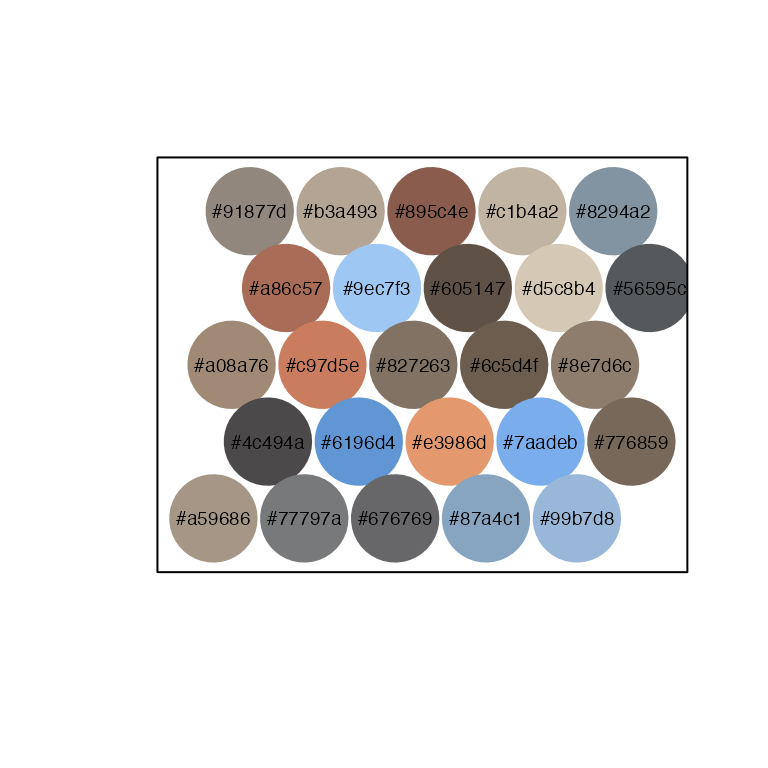
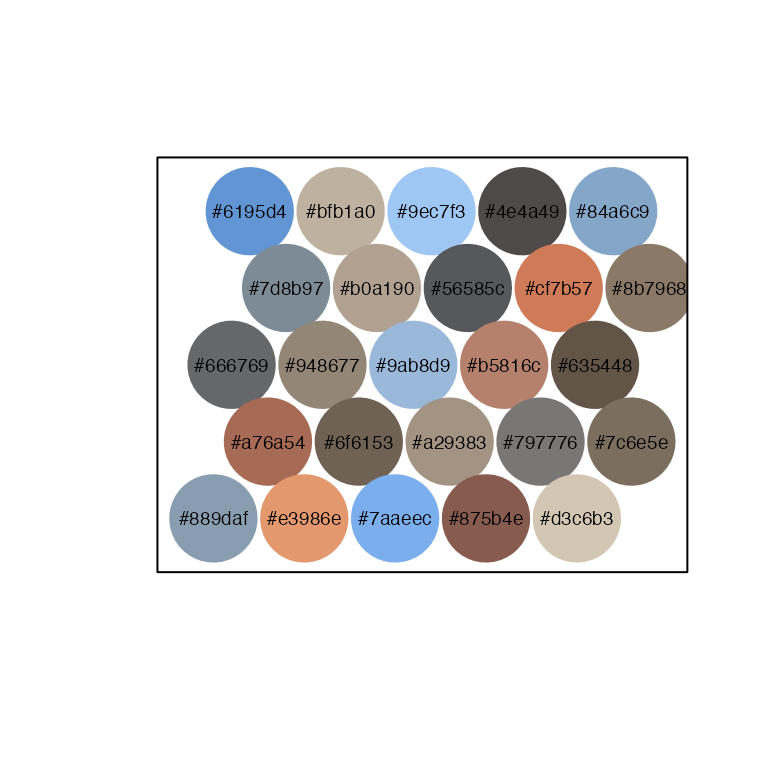
Re-built site with LTER defined and tweaked `palette_check` example

Changed region(s): [[0.2188, 0.2188, 0.9062, 0.75]]

diff --git a/docs/reference/lterpalettefinder-package.html b/docs/reference/lterpalettefinder-package.html
@@ -1,5 +1,5 @@
 <!DOCTYPE html>
-<!-- Generated by pkgdown: do not edit by hand --><html lang="en"><head><meta http-equiv="Content-Type" content="text/html; charset=UTF-8"><meta charset="utf-8"><meta http-equiv="X-UA-Compatible" content="IE=edge"><meta name="viewport" content="width=device-width, initial-scale=1, shrink-to-fit=no"><meta name="description" content="Allows identification of palettes derived from LTER photographs based on user criteria. Also facilitates extraction of palettes from users' photos directly."><title>lterpalettefinder: Extract Color Palettes from Photos and Pick Official LTER Palettes — lterpalettefinder-package • lterpalettefinder</title><script src="../deps/jquery-3.6.0/jquery-3.6.0.min.js"></script><meta name="viewport" content="width=device-width, initial-scale=1, shrink-to-fit=no"><link href="../deps/bootstrap-5.1.3/bootstrap.min.css" rel="stylesheet"><script src="../deps/bootstrap-5.1.3/bootstrap.bundle.min.js"></script><!-- Font Awesome icons --><link rel="stylesheet" href="https://cdnjs.cloudflare.com/ajax/libs/font-awesome/5.12.1/css/all.min.css" integrity="sha256-mmgLkCYLUQbXn0B1SRqzHar6dCnv9oZFPEC1g1cwlkk=" crossorigin="anonymous"><link rel="stylesheet" href="https://cdnjs.cloudflare.com/ajax/libs/font-awesome/5.12.1/css/v4-shims.min.css" integrity="sha256-wZjR52fzng1pJHwx4aV2AO3yyTOXrcDW7jBpJtTwVxw=" crossorigin="anonymous"><!-- bootstrap-toc --><script src="https://cdn.rawgit.com/afeld/bootstrap-toc/v1.0.1/dist/bootstrap-toc.min.js"></script><!-- headroom.js --><script src="https://cdnjs.cloudflare.com/ajax/libs/headroom/0.11.0/headroom.min.js" integrity="sha256-AsUX4SJE1+yuDu5+mAVzJbuYNPHj/WroHuZ8Ir/CkE0=" crossorigin="anonymous"></script><script src="https://cdnjs.cloudflare.com/ajax/libs/headroom/0.11.0/jQuery.headroom.min.js" integrity="sha256-ZX/yNShbjqsohH1k95liqY9Gd8uOiE1S4vZc+9KQ1K4=" crossorigin="anonymous"></script><!-- clipboard.js --><script src="https://cdnjs.cloudflare.com/ajax/libs/clipboard.js/2.0.6/clipboard.min.js" integrity="sha256-inc5kl9MA1hkeYUt+EC3BhlIgyp/2jDIyBLS6k3UxPI=" crossorigin="anonymous"></script><!-- search --><script src="https://cdnjs.cloudflare.com/ajax/libs/fuse.js/6.4.6/fuse.js" integrity="sha512-zv6Ywkjyktsohkbp9bb45V6tEMoWhzFzXis+LrMehmJZZSys19Yxf1dopHx7WzIKxr5tK2dVcYmaCk2uqdjF4A==" crossorigin="anonymous"></script><script src="https://cdnjs.cloudflare.com/ajax/libs/autocomplete.js/0.38.0/autocomplete.jquery.min.js" integrity="sha512-GU9ayf+66Xx2TmpxqJpliWbT5PiGYxpaG8rfnBEk1LL8l1KGkRShhngwdXK1UgqhAzWpZHSiYPc09/NwDQIGyg==" crossorigin="anonymous"></script><script src="https://cdnjs.cloudflare.com/ajax/libs/mark.js/8.11.1/mark.min.js" integrity="sha512-5CYOlHXGh6QpOFA/TeTylKLWfB3ftPsde7AnmhuitiTX4K5SqCLBeKro6sPS8ilsz1Q4NRx3v8Ko2IBiszzdww==" crossorigin="anonymous"></script><!-- pkgdown --><script src="../pkgdown.js"></script><meta property="og:title" content="lterpalettefinder: Extract Color Palettes from Photos and Pick Official LTER Palettes — lterpalettefinder-package"><meta property="og:description" content="Allows identification of palettes derived from LTER photographs based on user criteria. Also facilitates extraction of palettes from users' photos directly."><!-- mathjax --><script src="https://cdnjs.cloudflare.com/ajax/libs/mathjax/2.7.5/MathJax.js" integrity="sha256-nvJJv9wWKEm88qvoQl9ekL2J+k/RWIsaSScxxlsrv8k=" crossorigin="anonymous"></script><script src="https://cdnjs.cloudflare.com/ajax/libs/mathjax/2.7.5/config/TeX-AMS-MML_HTMLorMML.js" integrity="sha256-84DKXVJXs0/F8OTMzX4UR909+jtl4G7SPypPavF+GfA=" crossorigin="anonymous"></script><!--[if lt IE 9]>
+<!-- Generated by pkgdown: do not edit by hand --><html lang="en"><head><meta http-equiv="Content-Type" content="text/html; charset=UTF-8"><meta charset="utf-8"><meta http-equiv="X-UA-Compatible" content="IE=edge"><meta name="viewport" content="width=device-width, initial-scale=1, shrink-to-fit=no"><meta name="description" content="Allows identification of palettes derived from LTER (Long Term Ecological Research) photographs based on user criteria. Also facilitates extraction of palettes from users' photos directly."><title>lterpalettefinder: Extract Color Palettes from Photos and Pick Official LTER Palettes — lterpalettefinder-package • lterpalettefinder</title><script src="../deps/jquery-3.6.0/jquery-3.6.0.min.js"></script><meta name="viewport" content="width=device-width, initial-scale=1, shrink-to-fit=no"><link href="../deps/bootstrap-5.1.3/bootstrap.min.css" rel="stylesheet"><script src="../deps/bootstrap-5.1.3/bootstrap.bundle.min.js"></script><!-- Font Awesome icons --><link rel="stylesheet" href="https://cdnjs.cloudflare.com/ajax/libs/font-awesome/5.12.1/css/all.min.css" integrity="sha256-mmgLkCYLUQbXn0B1SRqzHar6dCnv9oZFPEC1g1cwlkk=" crossorigin="anonymous"><link rel="stylesheet" href="https://cdnjs.cloudflare.com/ajax/libs/font-awesome/5.12.1/css/v4-shims.min.css" integrity="sha256-wZjR52fzng1pJHwx4aV2AO3yyTOXrcDW7jBpJtTwVxw=" crossorigin="anonymous"><!-- bootstrap-toc --><script src="https://cdn.rawgit.com/afeld/bootstrap-toc/v1.0.1/dist/bootstrap-toc.min.js"></script><!-- headroom.js --><script src="https://cdnjs.cloudflare.com/ajax/libs/headroom/0.11.0/headroom.min.js" integrity="sha256-AsUX4SJE1+yuDu5+mAVzJbuYNPHj/WroHuZ8Ir/CkE0=" crossorigin="anonymous"></script><script src="https://cdnjs.cloudflare.com/ajax/libs/headroom/0.11.0/jQuery.headroom.min.js" integrity="sha256-ZX/yNShbjqsohH1k95liqY9Gd8uOiE1S4vZc+9KQ1K4=" crossorigin="anonymous"></script><!-- clipboard.js --><script src="https://cdnjs.cloudflare.com/ajax/libs/clipboard.js/2.0.6/clipboard.min.js" integrity="sha256-inc5kl9MA1hkeYUt+EC3BhlIgyp/2jDIyBLS6k3UxPI=" crossorigin="anonymous"></script><!-- search --><script src="https://cdnjs.cloudflare.com/ajax/libs/fuse.js/6.4.6/fuse.js" integrity="sha512-zv6Ywkjyktsohkbp9bb45V6tEMoWhzFzXis+LrMehmJZZSys19Yxf1dopHx7WzIKxr5tK2dVcYmaCk2uqdjF4A==" crossorigin="anonymous"></script><script src="https://cdnjs.cloudflare.com/ajax/libs/autocomplete.js/0.38.0/autocomplete.jquery.min.js" integrity="sha512-GU9ayf+66Xx2TmpxqJpliWbT5PiGYxpaG8rfnBEk1LL8l1KGkRShhngwdXK1UgqhAzWpZHSiYPc09/NwDQIGyg==" crossorigin="anonymous"></script><script src="https://cdnjs.cloudflare.com/ajax/libs/mark.js/8.11.1/mark.min.js" integrity="sha512-5CYOlHXGh6QpOFA/TeTylKLWfB3ftPsde7AnmhuitiTX4K5SqCLBeKro6sPS8ilsz1Q4NRx3v8Ko2IBiszzdww==" crossorigin="anonymous"></script><!-- pkgdown --><script src="../pkgdown.js"></script><meta property="og:title" content="lterpalettefinder: Extract Color Palettes from Photos and Pick Official LTER Palettes — lterpalettefinder-package"><meta property="og:description" content="Allows identification of palettes derived from LTER (Long Term Ecological Research) photographs based on user criteria. Also facilitates extraction of palettes from users' photos directly."><!-- mathjax --><script src="https://cdnjs.cloudflare.com/ajax/libs/mathjax/2.7.5/MathJax.js" integrity="sha256-nvJJv9wWKEm88qvoQl9ekL2J+k/RWIsaSScxxlsrv8k=" crossorigin="anonymous"></script><script src="https://cdnjs.cloudflare.com/ajax/libs/mathjax/2.7.5/config/TeX-AMS-MML_HTMLorMML.js" integrity="sha256-84DKXVJXs0/F8OTMzX4UR909+jtl4G7SPypPavF+GfA=" crossorigin="anonymous"></script><!--[if lt IE 9]>
 <script src="https://oss.maxcdn.com/html5shiv/3.7.3/html5shiv.min.js"></script>
 <script src="https://oss.maxcdn.com/respond/1.4.2/respond.min.js"></script>
 <![endif]--></head><body>
@@ -49,7 +49,7 @@
     </div>
 
     <div class="ref-description section level2">
-    <p>Allows identification of palettes derived from LTER photographs based on user criteria. Also facilitates extraction of palettes from users' photos directly.</p>
+    <p>Allows identification of palettes derived from LTER (Long Term Ecological Research) photographs based on user criteria. Also facilitates extraction of palettes from users' photos directly.</p>
     </div>
 
 

diff --git a/docs/index.html b/docs/index.html
@@ -5,7 +5,8 @@
 <meta charset="utf-8">
 <meta http-equiv="X-UA-Compatible" content="IE=edge">
 <meta name="viewport" content="width=device-width, initial-scale=1, shrink-to-fit=no">
-<meta name="description" content="Allows identification of palettes derived from LTER photographs based on user criteria.
+<meta name="description" content="Allows identification of palettes derived from LTER (Long Term Ecological Research) 
+   photographs based on user criteria.
    Also facilitates extraction of palettes from users' photos directly.">
 <title>Extract Color Palettes from Photos and Pick Official LTER Palettes • lterpalettefinder</title>
 <script src="deps/jquery-3.6.0/jquery-3.6.0.min.js"></script><meta name="viewport" content="width=device-width, initial-scale=1, shrink-to-fit=no">
@@ -13,7 +14,8 @@
 <script src="deps/bootstrap-5.1.3/bootstrap.bundle.min.js"></script><!-- Font Awesome icons --><link rel="stylesheet" href="https://cdnjs.cloudflare.com/ajax/libs/font-awesome/5.12.1/css/all.min.css" integrity="sha256-mmgLkCYLUQbXn0B1SRqzHar6dCnv9oZFPEC1g1cwlkk=" crossorigin="anonymous">
 <link rel="stylesheet" href="https://cdnjs.cloudflare.com/ajax/libs/font-awesome/5.12.1/css/v4-shims.min.css" integrity="sha256-wZjR52fzng1pJHwx4aV2AO3yyTOXrcDW7jBpJtTwVxw=" crossorigin="anonymous">
 <!-- bootstrap-toc --><script src="https://cdn.rawgit.com/afeld/bootstrap-toc/v1.0.1/dist/bootstrap-toc.min.js"></script><!-- headroom.js --><script src="https://cdnjs.cloudflare.com/ajax/libs/headroom/0.11.0/headroom.min.js" integrity="sha256-AsUX4SJE1+yuDu5+mAVzJbuYNPHj/WroHuZ8Ir/CkE0=" crossorigin="anonymous"></script><script src="https://cdnjs.cloudflare.com/ajax/libs/headroom/0.11.0/jQuery.headroom.min.js" integrity="sha256-ZX/yNShbjqsohH1k95liqY9Gd8uOiE1S4vZc+9KQ1K4=" crossorigin="anonymous"></script><!-- clipboard.js --><script src="https://cdnjs.cloudflare.com/ajax/libs/clipboard.js/2.0.6/clipboard.min.js" integrity="sha256-inc5kl9MA1hkeYUt+EC3BhlIgyp/2jDIyBLS6k3UxPI=" crossorigin="anonymous"></script><!-- search --><script src="https://cdnjs.cloudflare.com/ajax/libs/fuse.js/6.4.6/fuse.js" integrity="sha512-zv6Ywkjyktsohkbp9bb45V6tEMoWhzFzXis+LrMehmJZZSys19Yxf1dopHx7WzIKxr5tK2dVcYmaCk2uqdjF4A==" crossorigin="anonymous"></script><script src="https://cdnjs.cloudflare.com/ajax/libs/autocomplete.js/0.38.0/autocomplete.jquery.min.js" integrity="sha512-GU9ayf+66Xx2TmpxqJpliWbT5PiGYxpaG8rfnBEk1LL8l1KGkRShhngwdXK1UgqhAzWpZHSiYPc09/NwDQIGyg==" crossorigin="anonymous"></script><script src="https://cdnjs.cloudflare.com/ajax/libs/mark.js/8.11.1/mark.min.js" integrity="sha512-5CYOlHXGh6QpOFA/TeTylKLWfB3ftPsde7AnmhuitiTX4K5SqCLBeKro6sPS8ilsz1Q4NRx3v8Ko2IBiszzdww==" crossorigin="anonymous"></script><!-- pkgdown --><script src="pkgdown.js"></script><meta property="og:title" content="Extract Color Palettes from Photos and Pick Official LTER Palettes">
-<meta property="og:description" content="Allows identification of palettes derived from LTER photographs based on user criteria.
+<meta property="og:description" content="Allows identification of palettes derived from LTER (Long Term Ecological Research) 
+   photographs based on user criteria.
    Also facilitates extraction of palettes from users' photos directly.">
 <!-- mathjax --><script src="https://cdnjs.cloudflare.com/ajax/libs/mathjax/2.7.5/MathJax.js" integrity="sha256-nvJJv9wWKEm88qvoQl9ekL2J+k/RWIsaSScxxlsrv8k=" crossorigin="anonymous"></script><script src="https://cdnjs.cloudflare.com/ajax/libs/mathjax/2.7.5/config/TeX-AMS-MML_HTMLorMML.js" integrity="sha256-84DKXVJXs0/F8OTMzX4UR909+jtl4G7SPypPavF+GfA=" crossorigin="anonymous"></script><!--[if lt IE 9]>
 <script src="https://oss.maxcdn.com/html5shiv/3.7.3/html5shiv.min.js"></script>

diff --git a/docs/articles/lterpalettefinder.html b/docs/articles/lterpalettefinder.html
@@ -118,10 +118,10 @@ identified by k-means clustering on the red, green, blue bands extracted
 from the image) stored as hexadecimal codes.</p>
 <div class="sourceCode" id="cb3"><pre class="downlit sourceCode r">
 <code class="sourceCode R"><span><span class="va">fire_palette</span></span>
-<span><span class="co">#&gt;  [1] "#a59686" "#a08a76" "#91877d" "#4c494a" "#a86c57" "#77797a" "#c97d5e"</span></span>
-<span><span class="co">#&gt;  [8] "#b3a493" "#6196d4" "#9ec7f3" "#676769" "#827263" "#895c4e" "#e3986d"</span></span>
-<span><span class="co">#&gt; [15] "#605147" "#87a4c1" "#6c5d4f" "#c1b4a2" "#7aadeb" "#d5c8b4" "#99b7d8"</span></span>
-<span><span class="co">#&gt; [22] "#8e7d6c" "#8294a2" "#776859" "#56595c"</span></span></code></pre></div>
+<span><span class="co">#&gt;  [1] "#889daf" "#666769" "#6195d4" "#a76a54" "#7d8b97" "#e3986e" "#948677"</span></span>
+<span><span class="co">#&gt;  [8] "#bfb1a0" "#6f6153" "#b0a190" "#7aaeec" "#9ab8d9" "#9ec7f3" "#a29383"</span></span>
+<span><span class="co">#&gt; [15] "#56585c" "#875b4e" "#b5816c" "#4e4a49" "#797776" "#cf7b57" "#d3c6b3"</span></span>
+<span><span class="co">#&gt; [22] "#635448" "#84a6c9" "#7c6e5e" "#8b7968"</span></span></code></pre></div>
 </div>
 <div class="section level3">
 <h3 id="viewing-the-palette">Viewing the Palette<a class="anchor" aria-label="anchor" href="#viewing-the-palette"></a>

diff --git a/docs/reference/palette_check.html b/docs/reference/palette_check.html
@@ -73,9 +73,7 @@
     <div class="section level2">
     <h2 id="ref-examples">Examples<a class="anchor" aria-label="anchor" href="#ref-examples"></a></h2>
     <div class="sourceCode"><pre class="sourceCode r"><code><span class="r-in"><span><span class="co"># Check for misformatted hexcodes</span></span></span>
-<span class="r-in"><span><span class="kw">if</span> <span class="op">(</span><span class="cn">FALSE</span><span class="op">)</span> <span class="op">{</span></span></span>
-<span class="r-in"><span><span class="fu">palette_check</span><span class="op">(</span><span class="fu"><a href="https://rdrr.io/r/base/c.html" class="external-link">c</a></span><span class="op">(</span><span class="st">"#8e847a"</span>, <span class="st">"#9fc7f2g3"</span><span class="op">)</span><span class="op">)</span></span></span>
-<span class="r-in"><span><span class="op">}</span></span></span>
+<span class="r-in"><span><span class="fu">palette_check</span><span class="op">(</span>palette <span class="op">=</span> <span class="fu"><a href="https://rdrr.io/r/base/c.html" class="external-link">c</a></span><span class="op">(</span><span class="st">"#8e847a"</span>, <span class="st">"#9fc7f2"</span><span class="op">)</span><span class="op">)</span></span></span>
 </code></pre></div>
     </div>
   </main><aside class="col-md-3"><nav id="toc"><h2>On this page</h2>
